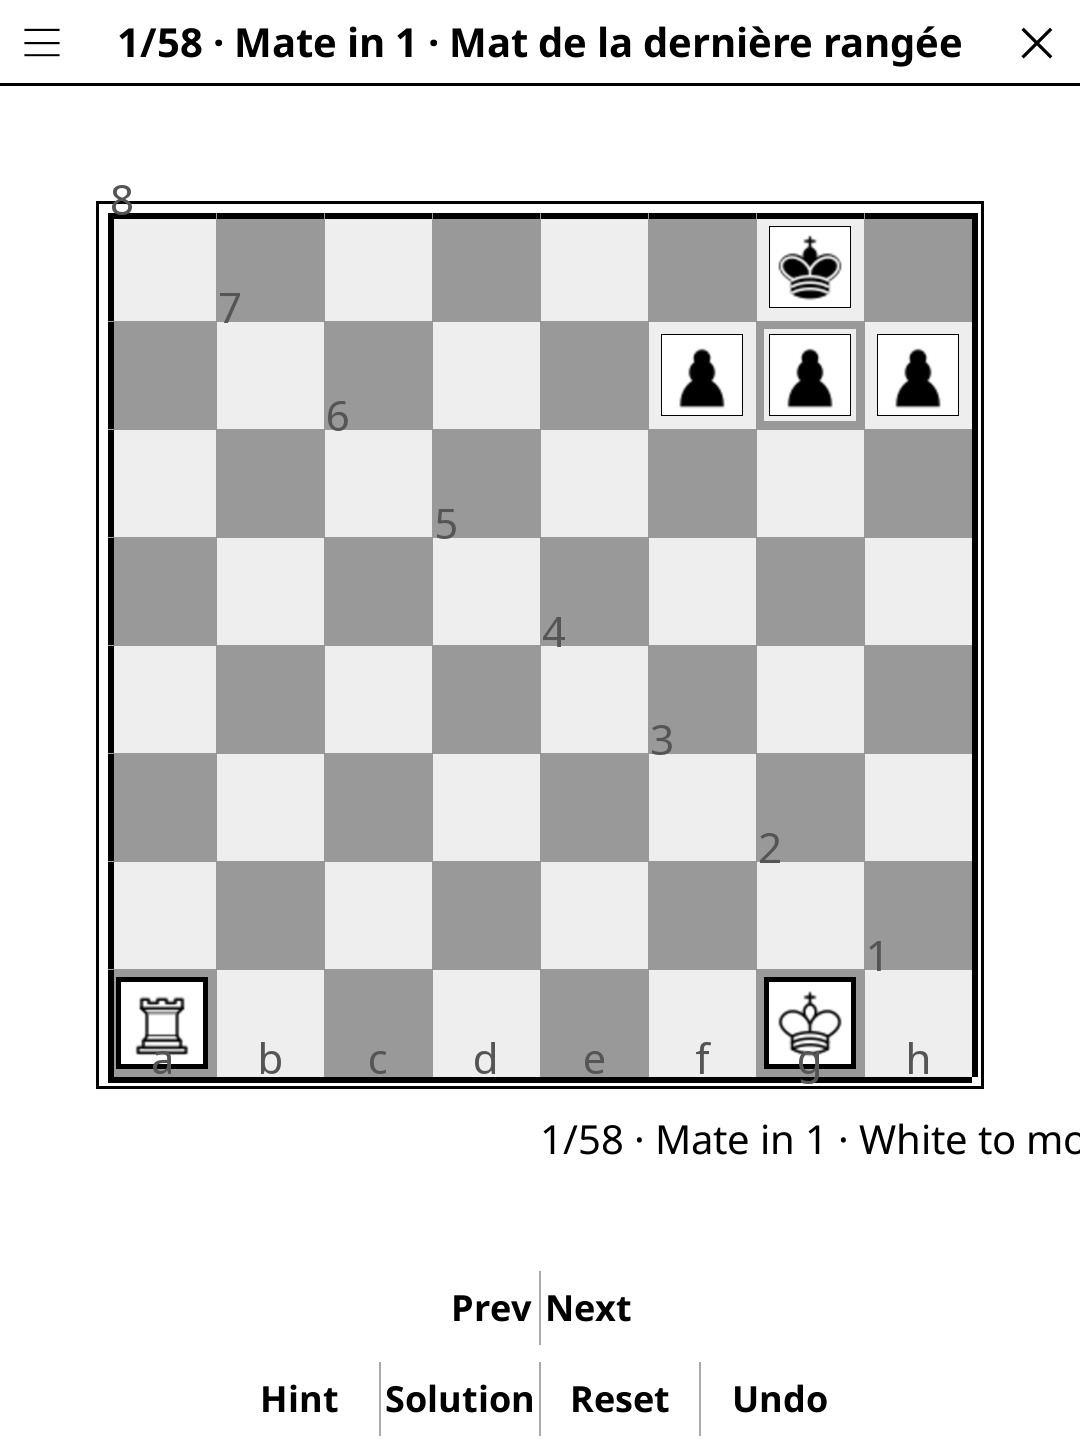
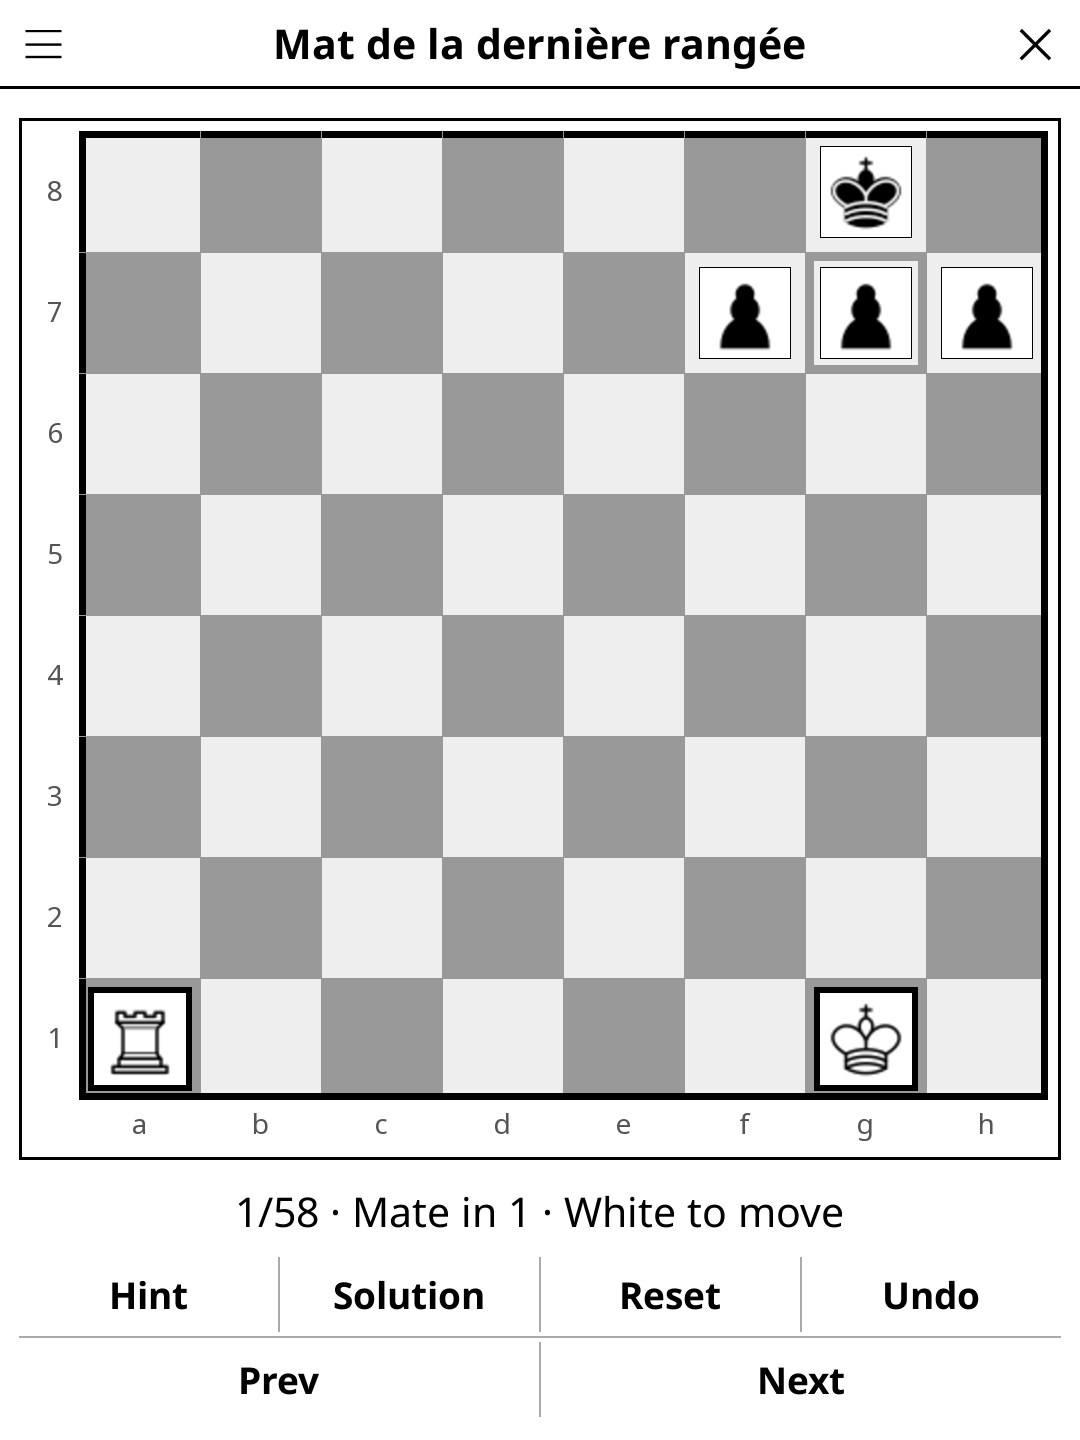
release: 1.3.0 -- redesigned screen, harmonised menu, New game at round end
Screen redesign (full-width action bar, unified pad, status line, larger
board), harmonised title-bar menu, and a "New game" button once the round
is over. See CHANGELOG.md.

diff --git a/CHANGELOG.md b/CHANGELOG.md
@@ -6,6 +6,27 @@ Reconstructed from this repository's git history: each release lists the
 feature and fix commits it carried. Version bumps, screenshot additions
 and CI syncs are left out.
 
+## [1.3.0] - 2026-10-30
+
+### Changed
+- Redesigned play screen: the board fills the room the controls leave, and the
+  actions sit on a full-width two-row bar (Hint/Solution/Reset/Undo, then
+  Prev/Next). In landscape the title bar now spans the screen instead of being
+  squeezed into the side panel.
+- The title bar shows only the lesson's title; the index and category, already
+  on the status line, made it long enough to run into the close button.
+- The menu's category entry shows the current one, "Category: Tactics",
+  instead of "Categories".
+- The status line reads "3/40 · Tactics · White to move" and wraps in
+  landscape, where the category is left out to fit.
+
+### Fixed
+- Rank and file labels were drawn inside the corner squares, on top of the
+  pieces, and scaled by DPI twice. They now sit in their own margin left of
+  and below the board, file letters on one baseline.
+- The letters used for pieces on very small squares were scaled by DPI twice
+  and came out too large on high-DPI screens.
+
 ## [1.2.18] - 2026-10-02
 
 ### Fixed
